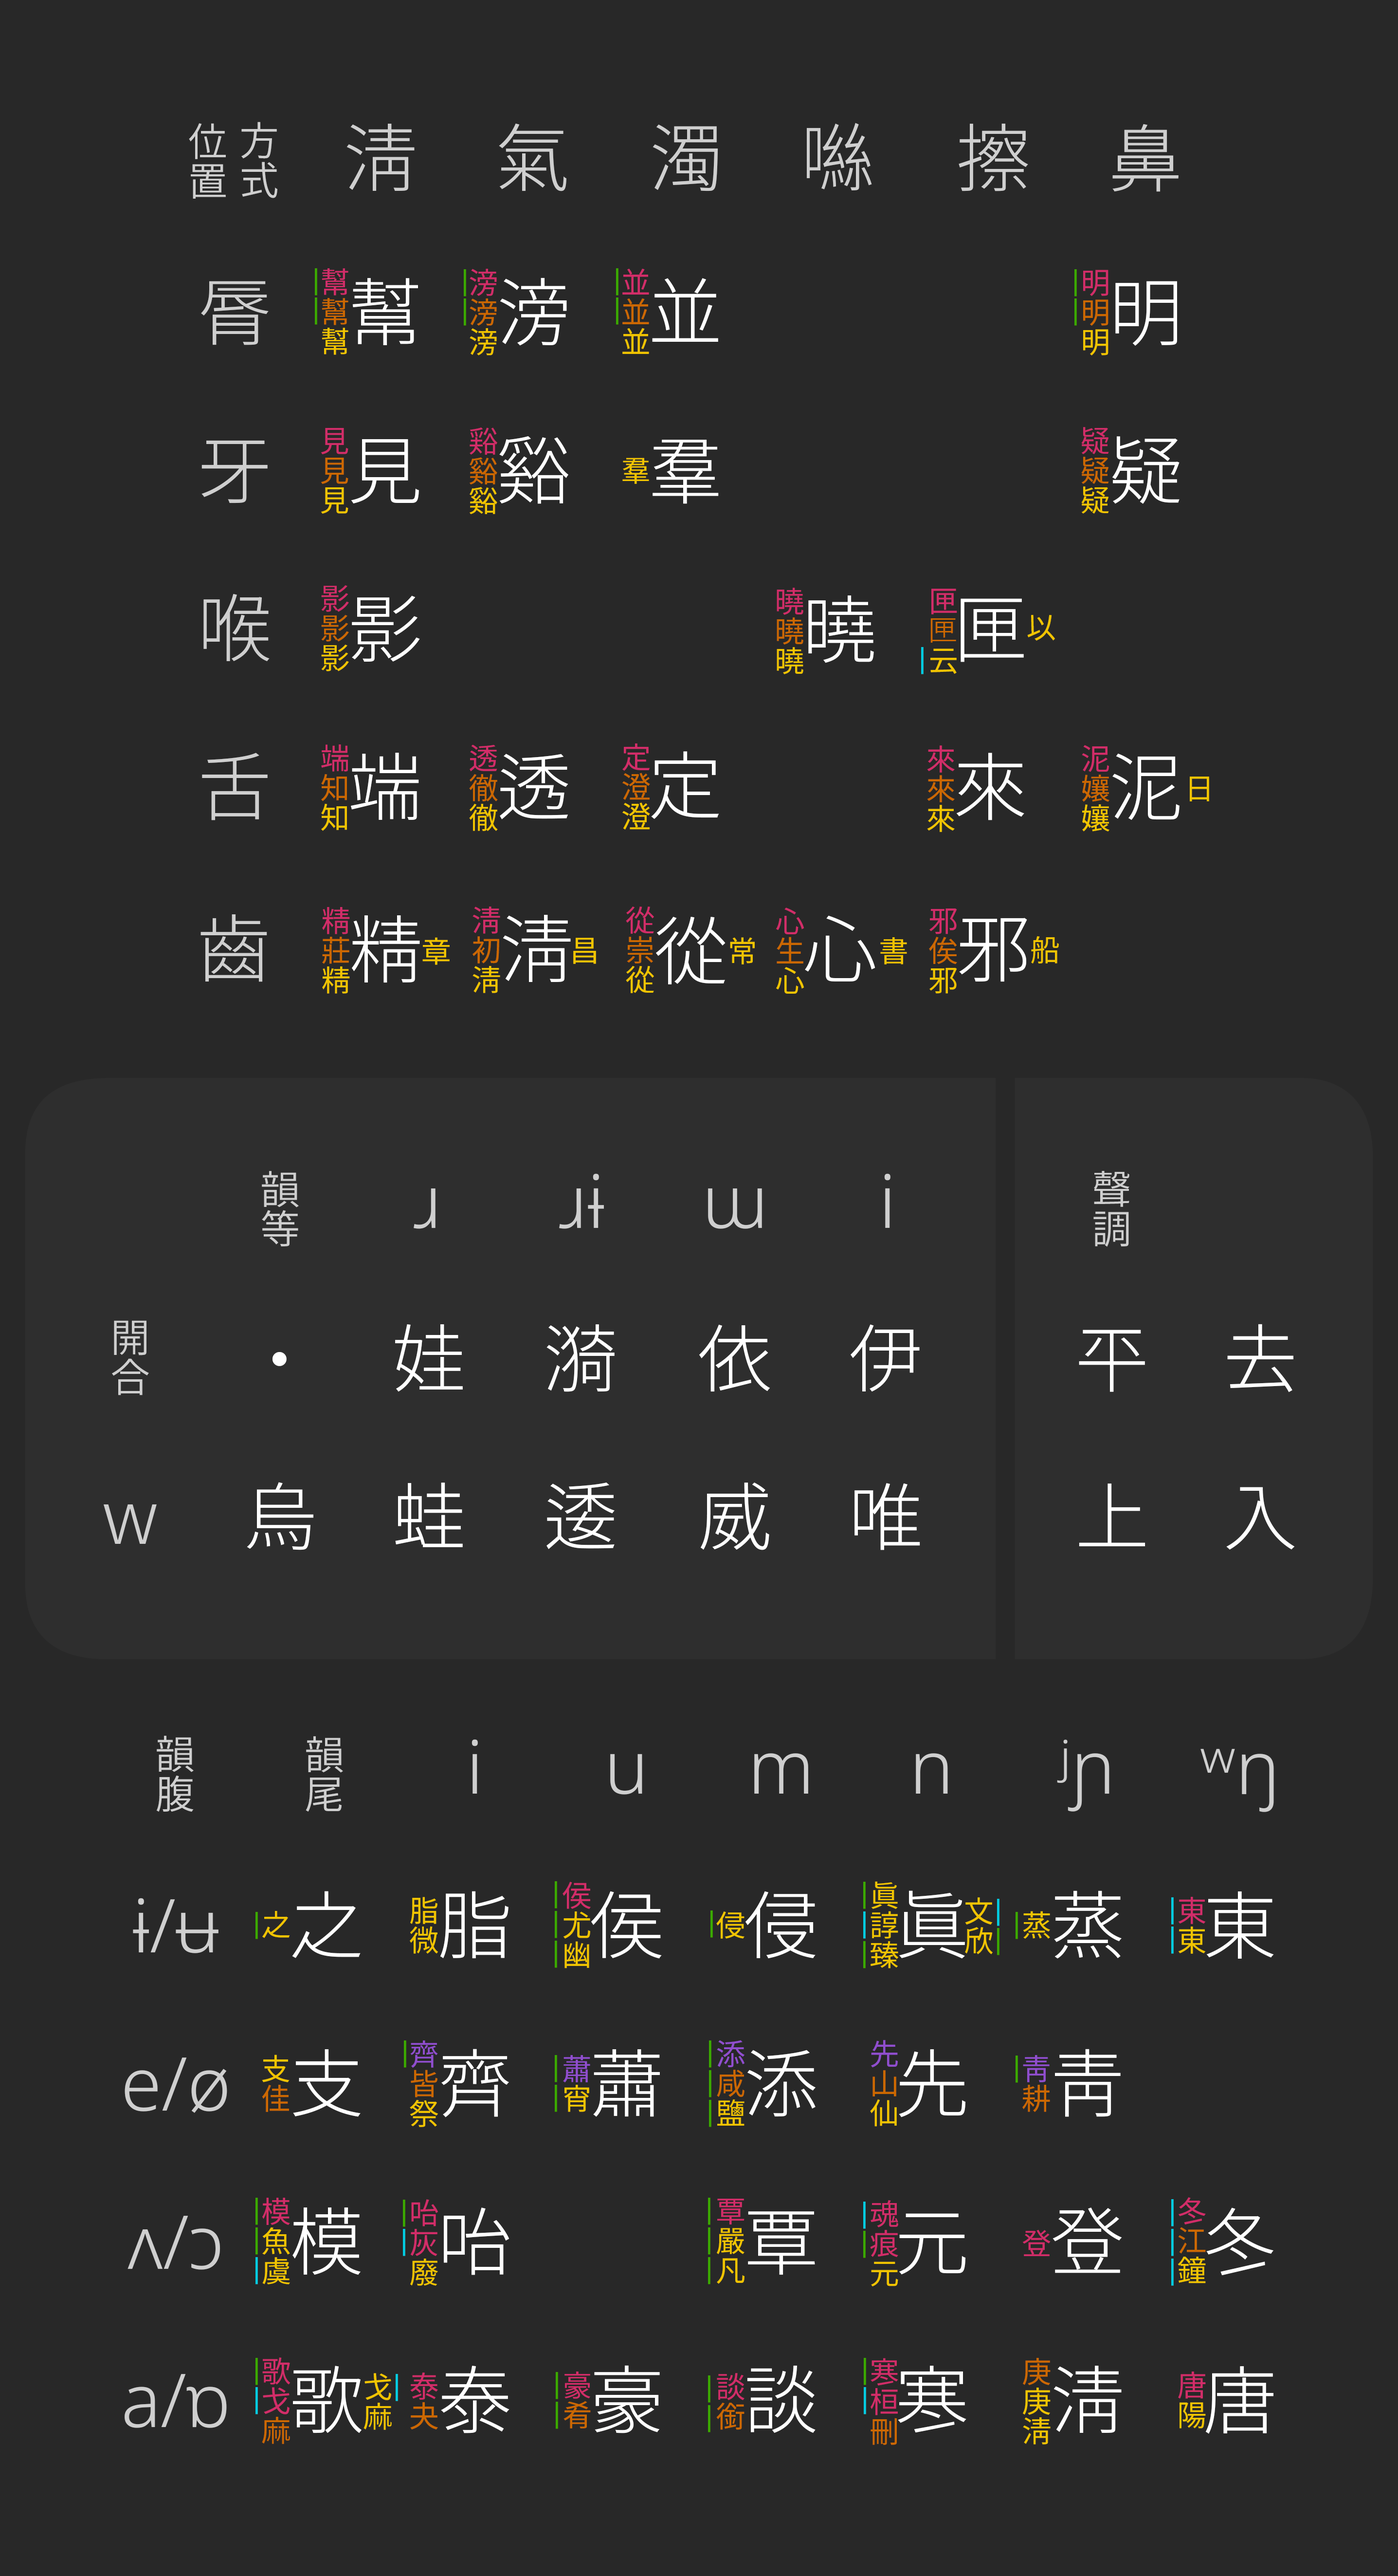
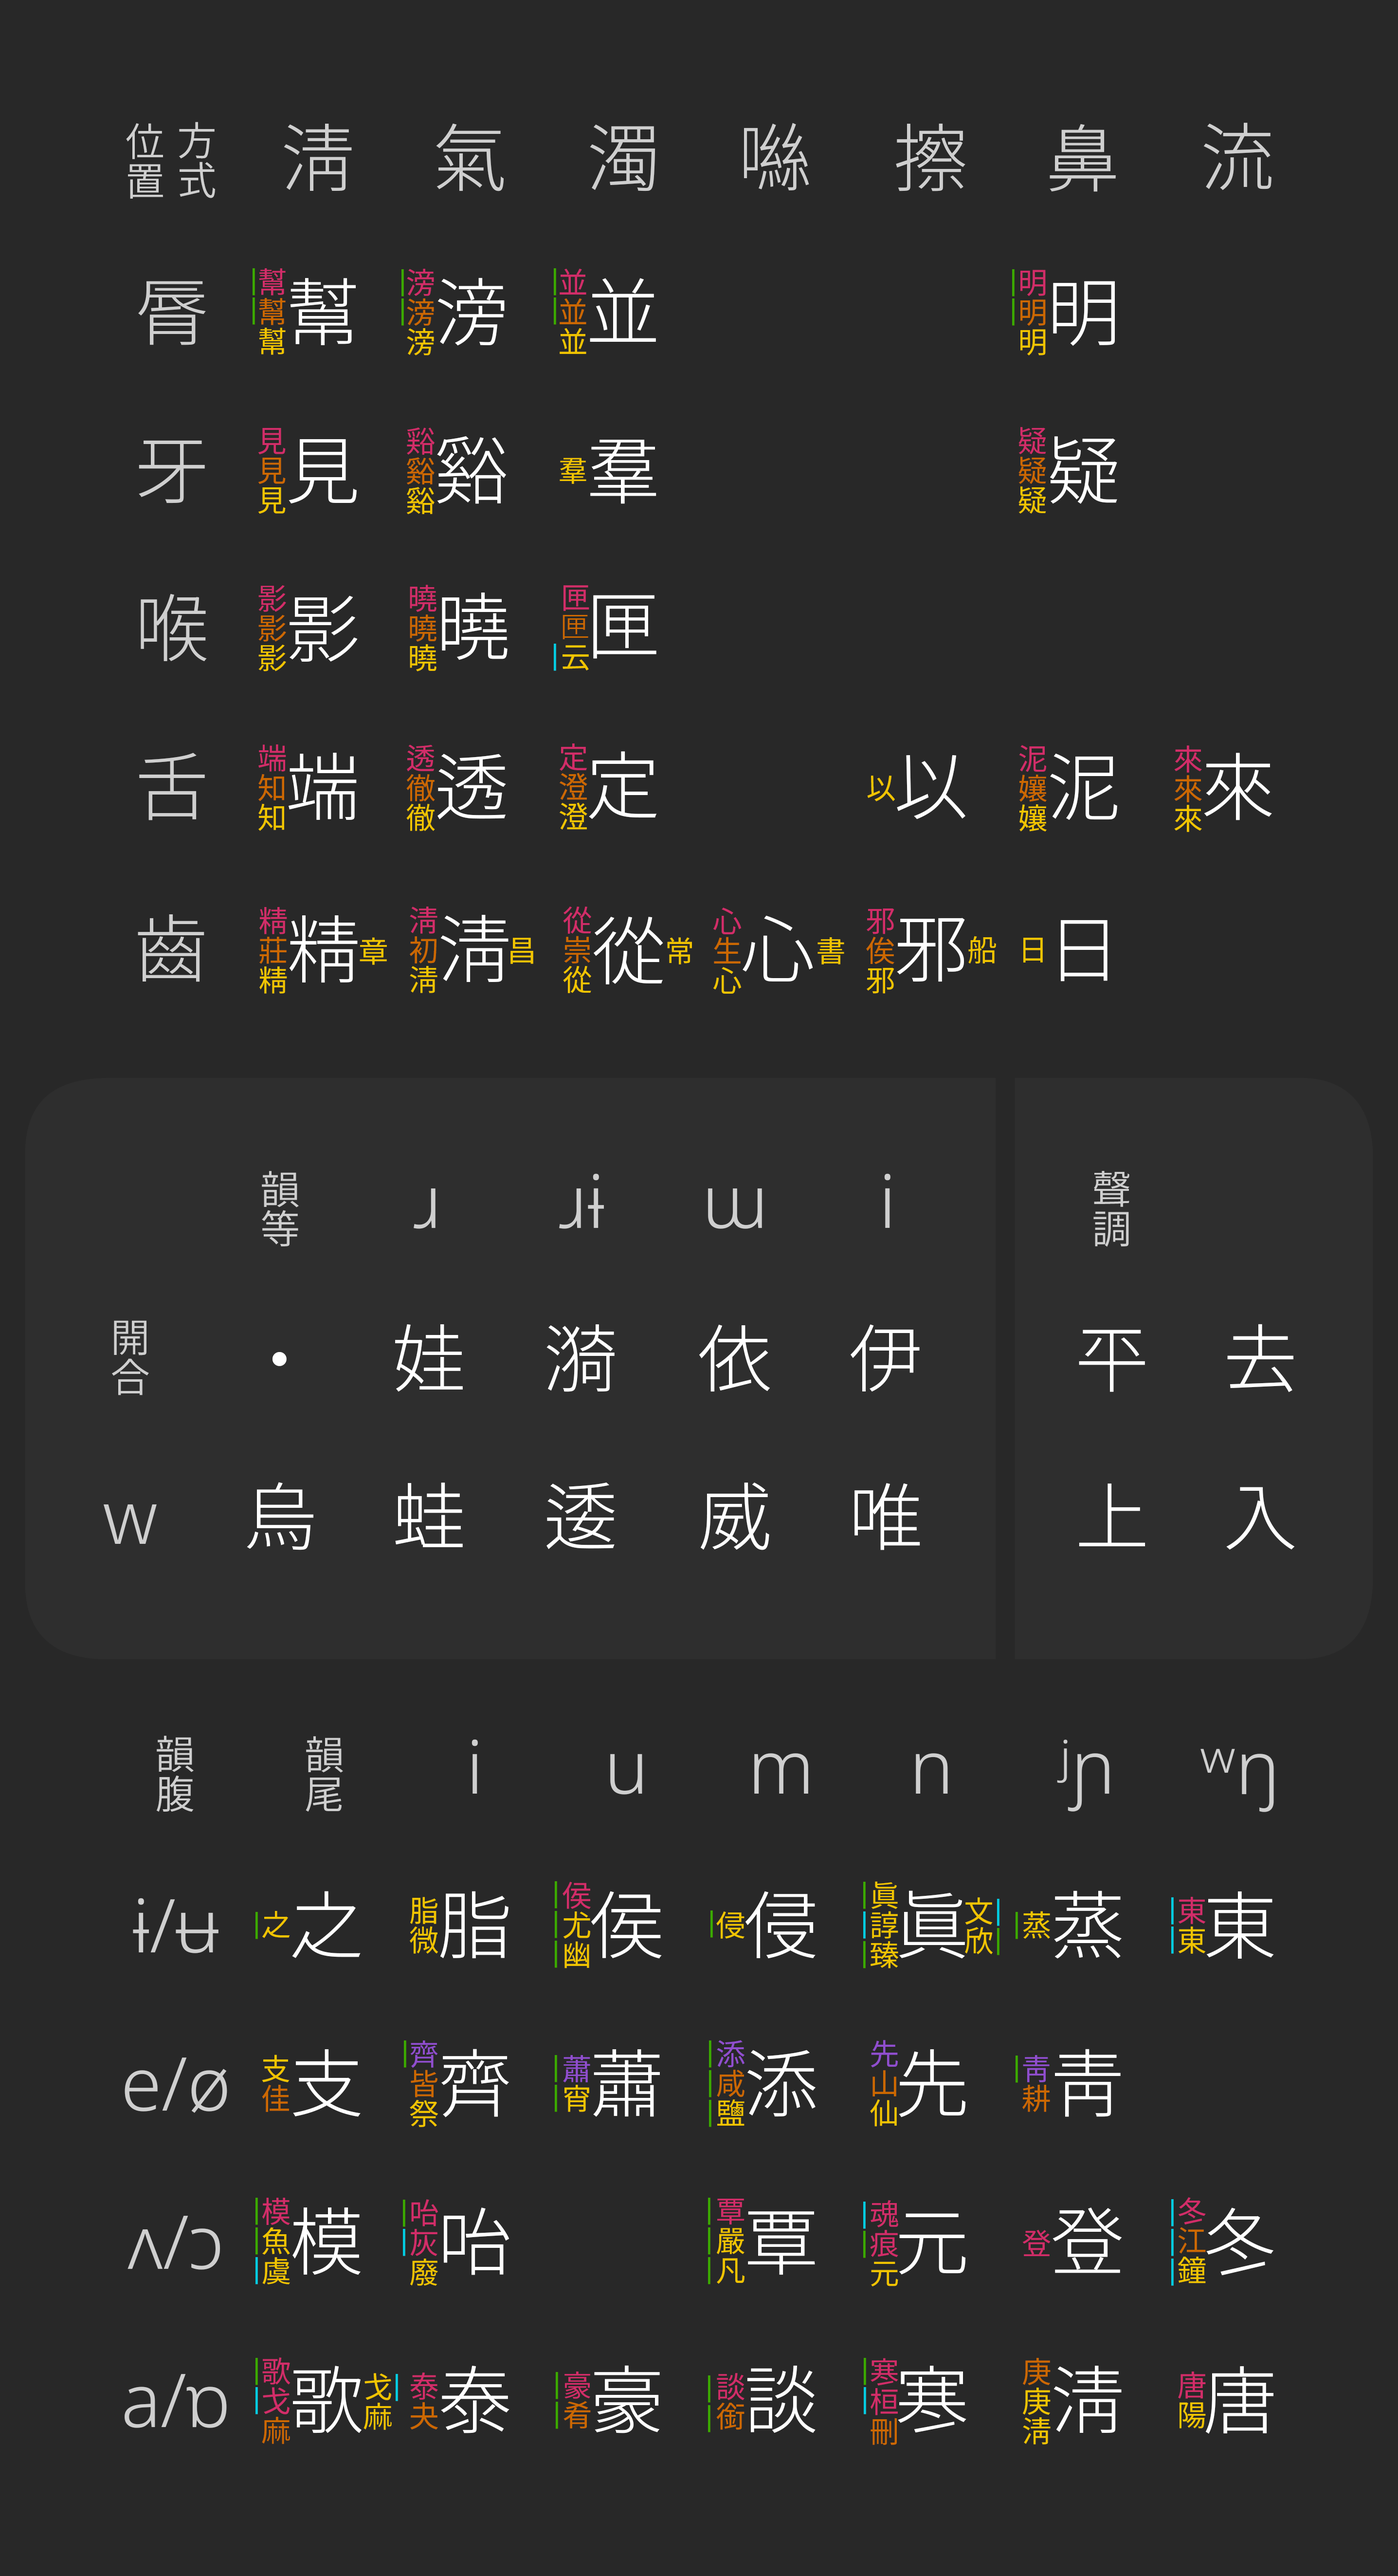
分出日、以

diff --git a/README.md b/README.md
@@ -19,22 +19,22 @@
   margin-right: auto;">
 <ol><li><p><span>聲母</span><span>Initial</span></p>
 <table><tr>
-	<th></th><th>幫</th><th>滂</th><th>並</th><th>明</th><th>見</th><th>谿</th><th>羣</th><th>疑</th><th>影</th><th>曉</th><th>匣</th><th>端</th><th>透</th><th>定</th><th>泥</th><th>精</th><th>清</th><th>從</th><th>心</th><th>邪</th><th>來</th>
+	<th></th><th>幫</th><th>滂</th><th>並</th><th>明</th><th>見</th><th>谿</th><th>羣</th><th>疑</th><th>影</th><th>曉</th><th>匣</th><th>端</th><th>透</th><th>定</th><th>泥</th><th>以</th><th>精</th><th>清</th><th>從</th><th>心</th><th>邪</th><th>日</th><th>來</th>
 </tr>
 <tr>
-	<th>一四等</th><td>幫</td><td>滂</td><td>並</td><td>明</td><td>見</td><td>谿</td><td></td><td>疑</td><td>影</td><td>曉</td><td>匣</td><td>端</td><td>透</td><td>定</td><td>泥</td><td>精</td><td>清</td><td>從</td><td>心</td><td>邪</td><td>來</td>
+	<th>一四等</th><td>幫</td><td>滂</td><td>並</td><td>明</td><td>見</td><td>谿</td><td></td><td>疑</td><td>影</td><td>曉</td><td>匣</td><td>端</td><td>透</td><td>定</td><td>泥</td><td></td><td>精</td><td>清</td><td>從</td><td>心</td><td>邪</td><td></td><td>來</td>
 </tr>
 <tr>
-	<th>二等</th><td>幫</td><td>滂</td><td>並</td><td>明</td><td>見</td><td>谿</td><td></td><td>疑</td><td>影</td><td>曉</td><td>匣</td><td>知</td><td>徹</td><td>澄</td><td>孃</td><td>莊</td><td>初</td><td>崇</td><td>生</td><td>俟</td><td></td>
+	<th>二等</th><td>幫</td><td>滂</td><td>並</td><td>明</td><td>見</td><td>谿</td><td></td><td>疑</td><td>影</td><td>曉</td><td>匣</td><td>知</td><td>徹</td><td>澄</td><td>孃</td><td></td><td>莊</td><td>初</td><td>崇</td><td>生</td><td>俟</td><td></td><td></td>
 </tr>
 <tr>
-	<th>鈍音三等</th><td>幫</td><td>滂</td><td>並</td><td>明</td><td>見</td><td>谿</td><td>羣</td><td>疑</td><td>影</td><td>曉</td><td>云</td><td>知</td><td>徹</td><td>澄</td><td>孃</td><td>莊</td><td>初</td><td>崇</td><td>生</td><td>俟</td></td><td>來</td>
+	<th>鈍音三等</th><td>幫</td><td>滂</td><td>並</td><td>明</td><td>見</td><td>谿</td><td>羣</td><td>疑</td><td>影</td><td>曉</td><td>云</td><td>知</td><td>徹</td><td>澄</td><td>孃</td><td></td><td>莊</td><td>初</td><td>崇</td><td>生</td><td>俟</td></td><td></td><td>來</td>
 </tr>
 <tr>
-	<th>其它三等</th><td>非</td><td>敷</td><td>奉</td><td>微</td><td>見</td><td>谿</td><td>羣</td><td>疑</td><td>影</td><td>曉</td><td>云</td><td></td><td></td><td></td><td></td><td>章</td><td>昌</td><td>常</td><td>書</td><td>船</td><td></td>
+	<th>其它三等</th><td>非</td><td>敷</td><td>奉</td><td>微</td><td>見</td><td>谿</td><td>羣</td><td>疑</td><td>影</td><td>曉</td><td>云</td><td></td><td></td><td></td><td></td><td></td><td>章</td><td>昌</td><td>常</td><td>書</td><td>船</td><td>日</td><td></td>
 </tr>
 <tr>
-	<th>尖音三等</th><td>幫</td><td>滂</td><td>並</td><td>明</td><td>見</td><td>谿</td><td>羣</td><td>疑</td><td>影</td><td>曉</td><td>以</td><td></td><td></td><td></td><td>日</td><td>精</td><td>清</td><td>從</td><td>心</td><td>邪</td><td></td>
+	<th>尖音三等</th><td>幫</td><td>滂</td><td>並</td><td>明</td><td>見</td><td>谿</td><td>羣</td><td>疑</td><td>影</td><td>曉</td><td></td><td></td><td></td><td></td><td></td><td>以</td><td>精</td><td>清</td><td>從</td><td>心</td><td>邪</td><td></td><td></td>
 </tr>
 </table></li>
 <li><p><span>韻母</span><span>Final</span></p>
